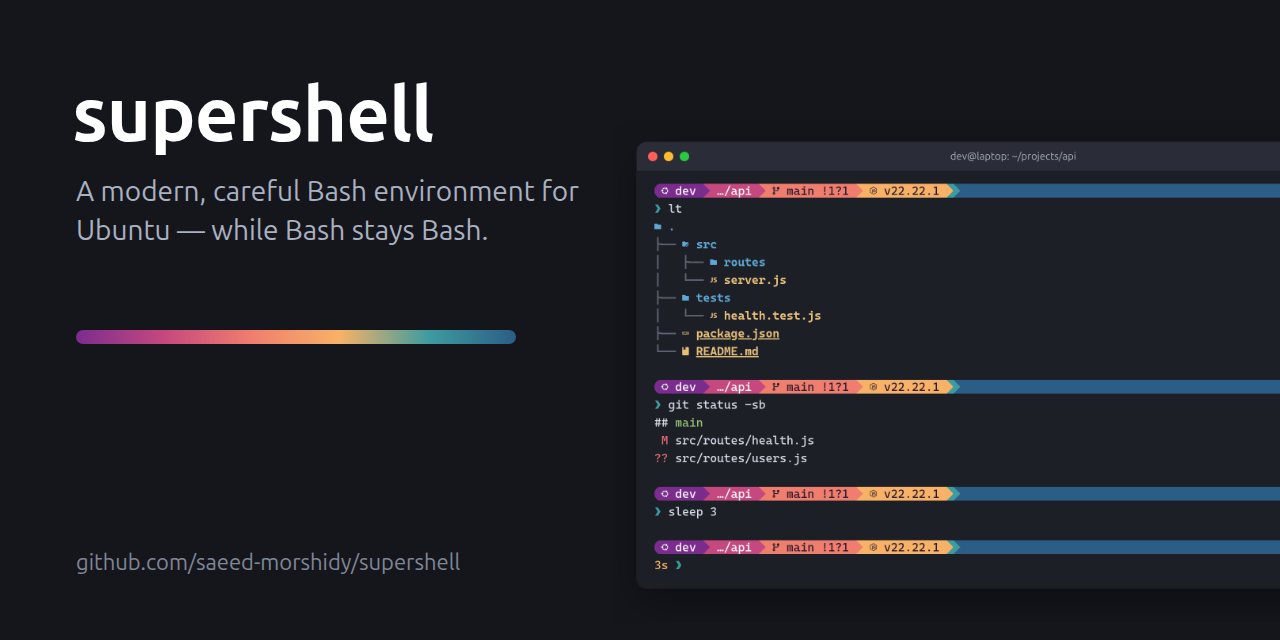
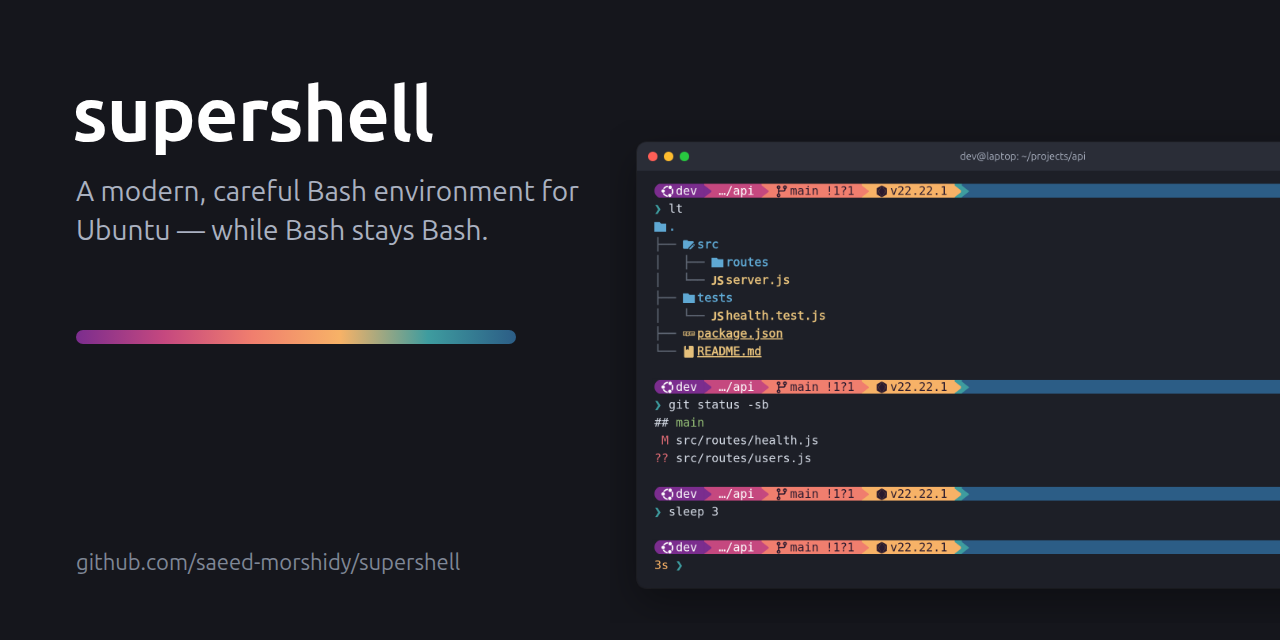
DejaVu Sans Mono is the default terminal font again
Cascadia Code NF became the default only because its own half-circle
glyphs filled the line; the bar's rounded ends are now drawn by
supershell and meet the bar exactly with DejaVu Sans Mono too, which has
clearer letters and better Arabic. Cascadia Code NF stays available.

Default, font list order, notes in supershell font / doctor, tests,
docs, changelog and screenshots.

diff --git a/CHANGELOG.md b/CHANGELOG.md
@@ -25,7 +25,7 @@ First public version of supershell.
 - Init cache (`starship init` etc.) records which binary wrote it and is rebuilt when that changes; before, switching starship from apt to the release kept running the old binary (a release keeps its older build date).
 - **supershell-theme**, supershell's own prompt theme and the new default: a full-width powerline bar, square ends, clock at the right, independent of starship presets (generated by `scripts/gen-supershell-theme.py`). Colours are palettes — `supershell` (a re-tuned pastel ramp, default), `supershell-root` (red, the default in root shells), `pastel`, `tokyo-night`, `catppuccin`, `gruvbox`, `nord`, `dracula`, `rose-pine`, `kanagawa` — via `supershell theme colors|root-colors <name>`; `supershell theme reset` restores the defaults. `supershell theme list` shows every palette drawn by starship as your real prompt; `theme colors` / `theme root-colors` without a name open a chooser with a live preview (fzf; numbered menu without a terminal).
 - `font_fit` (default on): the Ptyxis font size is nudged to the nearest size at which the bar's arrows and rounded ends fill the line exactly on this screen (e.g. 14 → 14.5; measured at 96 dpi × text scaling, since GTK scales the display afterwards), using VTE's line-height formula through Pango (`lib/fontfit.py`). Found on the laptop: at 14 pt the rounded ends stopped one pixel above the bar's bottom edge.
-- Default font: Cascadia Code NF (Ubuntu's fonts-cascadia-code): Arabic built in, and its powerline arrows, rounded ends and icons fill the cell height — with fonts that lack them, the rounded ends come from Symbols Nerd Font Mono and look too small (`doctor` says so). supershell-theme shows the system's icon first, right inside the rounded start (no gap), and a clock icon from the Nerd Font before the rounded end — the spacing of typecraft's starship prompt.
+- Default font: DejaVu Sans Mono, for its clear letters and Arabic. Cascadia Code NF (Ubuntu's fonts-cascadia-code, Arabic and Nerd Font icons built in) is the other font the drawn rounded ends fit exactly (`supershell font cascadia-code`). supershell-theme shows the system's icon first, right inside the rounded start (no gap), and a clock icon from the Nerd Font before the rounded end — the spacing of typecraft's starship prompt.
 - supershell-theme moves its bar to two full-width lines when it does not fit on one (long folder, busy git status, narrow window): `starship-supershell-theme-split.toml` is rendered with the theme, and the shell measures each prompt and uses it only when needed (one extra starship run for those prompts only). With ble.sh the prompt is worked out again on resize/zoom, before ble.sh redraws it. Root shells (`supershell root on`) keep the one-line bar. `supershell theme split off` (`theme_split`) keeps every prompt on one line. The width check is plain string cuts (<1 ms; a first extglob version cost ~70 ms on every prompt).
 - The rounded ends are drawn by supershell (`config/fonts/SupershellEnds.ttf`, generated by `scripts/gen-ends-font.py` with fontTools; reproducible bytes, checked by a test). The end's cell is printed in reverse video, so its background — the bar colour — is filled by the terminal to the exact cell edges, and the glyph cuts the two outside corners in the terminal's background colour, reaching past the line where VTE clips it. Font half-circles (U+E0B6/E0B4) stopped a pixel short at many sizes and at every zoom step. Works with any palette and terminal colours. Fonts other than Cascadia Code NF, DejaVu Sans Mono and Ubuntu Sans Mono get a note on `supershell font` (and in doctor) that a 1px step can show.
 - supershell-theme has rounded ends by default (a half circle before the name and after the clock, at the window edge); `supershell theme ends square` for straight ones (`theme_ends`).

diff --git a/docs/configuration.md b/docs/configuration.md
@@ -20,9 +20,9 @@ supershell config set <key> <value>
 | `prompt_custom` | on, off | on | supershell's ready-made settings for styles that have them (pastel-powerline: full terminal width, square ends, clock at the right); `off` = the preset as starship publishes it. Asked on the first install |
 | `prompt_cap` | on, off | off | with the ready-made settings: the preset's rounded start of the line (`off` = square at the window edge) |
 | `theme_split` | on, off | on | supershell-theme: when the bar does not fit on one line (long folder, busy git status, narrow window), draw it over two full-width lines; with ble.sh it is worked out again on resize and zoom (`supershell theme split on\|off`). Off: always one line (its end wraps when it does not fit) |
-| `theme_ends` | rounded, square | rounded | supershell-theme: rounded ends of the bar, or straight at the window edges (`supershell theme ends …`). The rounded ends are supershell's own font (`Supershell Ends`, installed by the fonts module; `scripts/gen-ends-font.py`): printed in reverse video, the cell's background is the bar colour and the glyph cuts the corners in the terminal's background colour — exact at every size, zoom and palette. Drawn for Cascadia Code NF; also exact with DejaVu Sans Mono and Ubuntu Sans Mono; with the others a 1px step can show (`supershell font` and `doctor` say so) |
+| `theme_ends` | rounded, square | rounded | supershell-theme: rounded ends of the bar, or straight at the window edges (`supershell theme ends …`). The rounded ends are supershell's own font (`Supershell Ends`, installed by the fonts module; `scripts/gen-ends-font.py`): printed in reverse video, the cell's background is the bar colour and the glyph cuts the corners in the terminal's background colour — exact at every size, zoom and palette. Exact with DejaVu Sans Mono, Cascadia Code NF and Ubuntu Sans Mono; with the others a 1px step can show (`supershell font` and `doctor` say so) |
 | `theme_tools` | on, off | on | eza (`ll`, `la`, `lt`), fzf, bat and delta take their colours from the theme palette; your own eza theme, `~/.dircolors`, `BAT_THEME` and `FZF_DEFAULT_OPTS` always win |
-| `font` | cascadia-code, dejavu-sans-mono, jetbrains-mono, fira-code, ibm-plex-mono, ubuntu-sans-mono | cascadia-code | terminal font (`cascadia-code` = Cascadia Code NF: Arabic built in, powerline arrows and icons at full cell height; the bar's drawn rounded ends are made for its line) (Ubuntu package installed in the same apt batch). Fonts without Arabic take it from DejaVu Sans Mono, so Arabic stays fixed-width. Asked on the first install; `supershell font <name>` |
+| `font` | dejavu-sans-mono, cascadia-code, jetbrains-mono, fira-code, ibm-plex-mono, ubuntu-sans-mono | dejavu-sans-mono | terminal font (`dejavu-sans-mono` = DejaVu Sans Mono: clear letters and good Arabic of its own; `cascadia-code` = Cascadia Code NF, with Arabic and Nerd Font icons built in) (Ubuntu package installed in the same apt batch). Fonts without Arabic take it from DejaVu Sans Mono, so Arabic stays fixed-width. Asked on the first install; `supershell font <name>` |
 | `font_size` | 8–14, 16 | 14 | terminal font size the `fonts` module sets in Ptyxis (applied right away if supershell manages the Ptyxis font) |
 | `font_fit` | on, off | on | set the terminal font a little larger or smaller (−1 … +1.5 pt) so the prompt bar's arrows fill the line exactly. VTE rounds the line height and draws these glyphs from the font, so at some sizes they end a pixel short. Measured at 96 dpi × text scaling (GTK scales the display afterwards). Zoom changes the size and is not covered; the rounded ends do not need this. Worked out with VTE's own formula (`lib/fontfit.py`, Pango); `doctor` tells you when the screen changed |
 

diff --git a/README.ar.md b/README.ar.md
@@ -28,7 +28,7 @@ cd supershell
 أول تثبيت يسألك سؤالين:
 
 - **شكل الـ prompt** — *supershell-theme* (الافتراضي): ثيم supershell الخاص — شريط ألوان بعرض الـ terminal كله بطرفين مدوّرين، والساعة على اليمين — أو *starship*: شكل pastel-powerline [كما ينشره starship](https://starship.rs/presets/) بالضبط. الخياران `--custom` و`--default`، وترجع للافتراضي في أي وقت بـ `supershell theme reset`.
-- **خط الـ terminal** — Cascadia Code NF (الافتراضي: فيه العربي والأيقونات، وأطراف الشريط المدوّرة اللي supershell بيرسمها بنفسه متظبطة عليه)، أو DejaVu Sans Mono، أو JetBrains Mono، أو Fira Code، أو IBM Plex Mono، أو Ubuntu Sans Mono، من أرشيف Ubuntu. الخيار `--font=NAME`، وتقدر تغيّر لاحقًا بـ `supershell font <name>`.
+- **خط الـ terminal** — DejaVu Sans Mono (الافتراضي: حروفه واضحة وعربيّه حلو)، أو Cascadia Code NF، أو JetBrains Mono، أو Fira Code، أو IBM Plex Mono، أو Ubuntu Sans Mono، من أرشيف Ubuntu. الخيار `--font=NAME`، وتقدر تغيّر لاحقًا بـ `supershell font <name>`.
 
 و`--yes` تختار الافتراضي في الاثنين.
 
@@ -46,7 +46,7 @@ cd supershell
 | `supershell prompt [<style>]` | أشكال تانية: `pastel-powerline`، `tokyo-night`، `gruvbox-rainbow`، `catppuccin-mocha`… |
 | `supershell prompt custom on/off` | شكل supershell (بعرض الشاشة وطرفاه مربّعان — الافتراضي) أو شكل starship كما هو؛ و`prompt cap on` يرجّع البداية المدوّرة |
 | `supershell prompt edit` | تعديلاتك أنت على الـ prompt (`~/.config/supershell/prompt.toml`)، وتبقى مع أي شكل وبعد أي تحديث |
-| `supershell font [<name>]` | خط الـ terminal (Cascadia Code NF، DejaVu Sans Mono، JetBrains Mono…؛ بينبّهك لو الأطراف المدوّرة ممكن يبان فيها بكسل مع الخط دا)، والعربي دائمًا بعرض ثابت؛ Ptyxis يتحدّث فورًا |
+| `supershell font [<name>]` | خط الـ terminal (DejaVu Sans Mono، Cascadia Code NF، JetBrains Mono…؛ بينبّهك لو الأطراف المدوّرة ممكن يبان فيها بكسل مع الخط دا)، والعربي دائمًا بعرض ثابت؛ Ptyxis يتحدّث فورًا |
 | `supershell root on/off` | نفس شكل الـ prompt وأنت root (`su -` أو `sudo -i`) — نسخ يملكها root، والـ prompt فقط، ويطلب sudo مرة واحدة |
 | `supershell keys` | ملخص الاختصارات |
 | `supershell doctor` | فحص سلامة البيئة |

diff --git a/README.md b/README.md
@@ -51,7 +51,7 @@ The first install asks two questions — `--yes` takes the defaults:
 | Question | Default | Other choices |
 |---|---|---|
 | **Prompt** | **supershell-theme** — supershell's own (below) | the starship pastel-powerline preset as published (`--default`) |
-| **Terminal font** | Cascadia Code NF — Arabic built in, icons at full height; the bar's drawn rounded ends are made for it | DejaVu Sans Mono, JetBrains Mono, Fira Code, IBM Plex Mono, Ubuntu Sans Mono (`--font=NAME`) — all from Ubuntu's archive, Arabic always fixed-width |
+| **Terminal font** | DejaVu Sans Mono — clear letters and good Arabic of its own; icons from Symbols Nerd Font | Cascadia Code NF, JetBrains Mono, Fira Code, IBM Plex Mono, Ubuntu Sans Mono (`--font=NAME`) — all from Ubuntu's archive, Arabic always fixed-width |
 
 **Requirements:** Ubuntu 26.04 LTS (24.04 and 25.10 best-effort), x86_64 or aarch64,
 Bash 5.1+, `sudo` for apt packages (asked once). Run it as your normal user.
